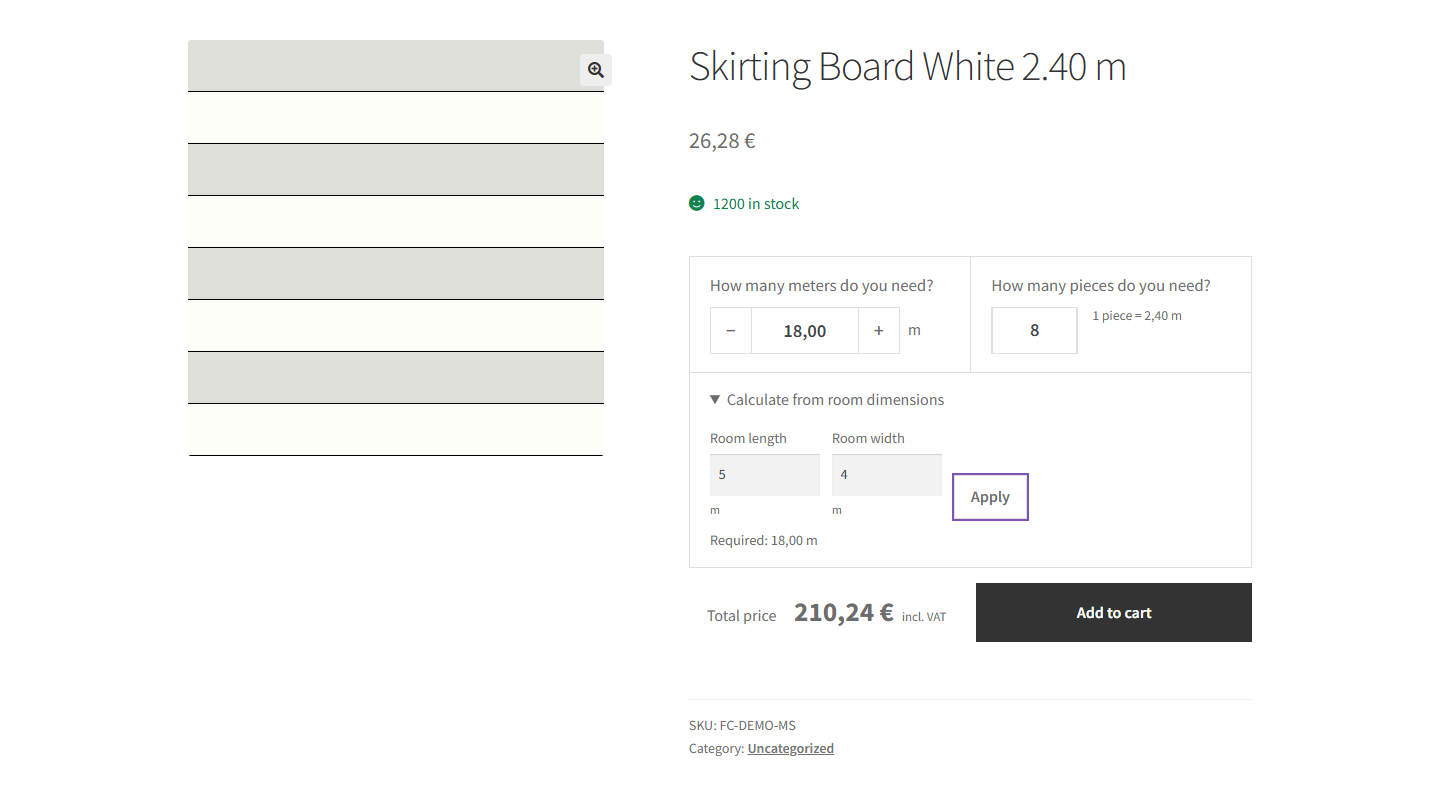
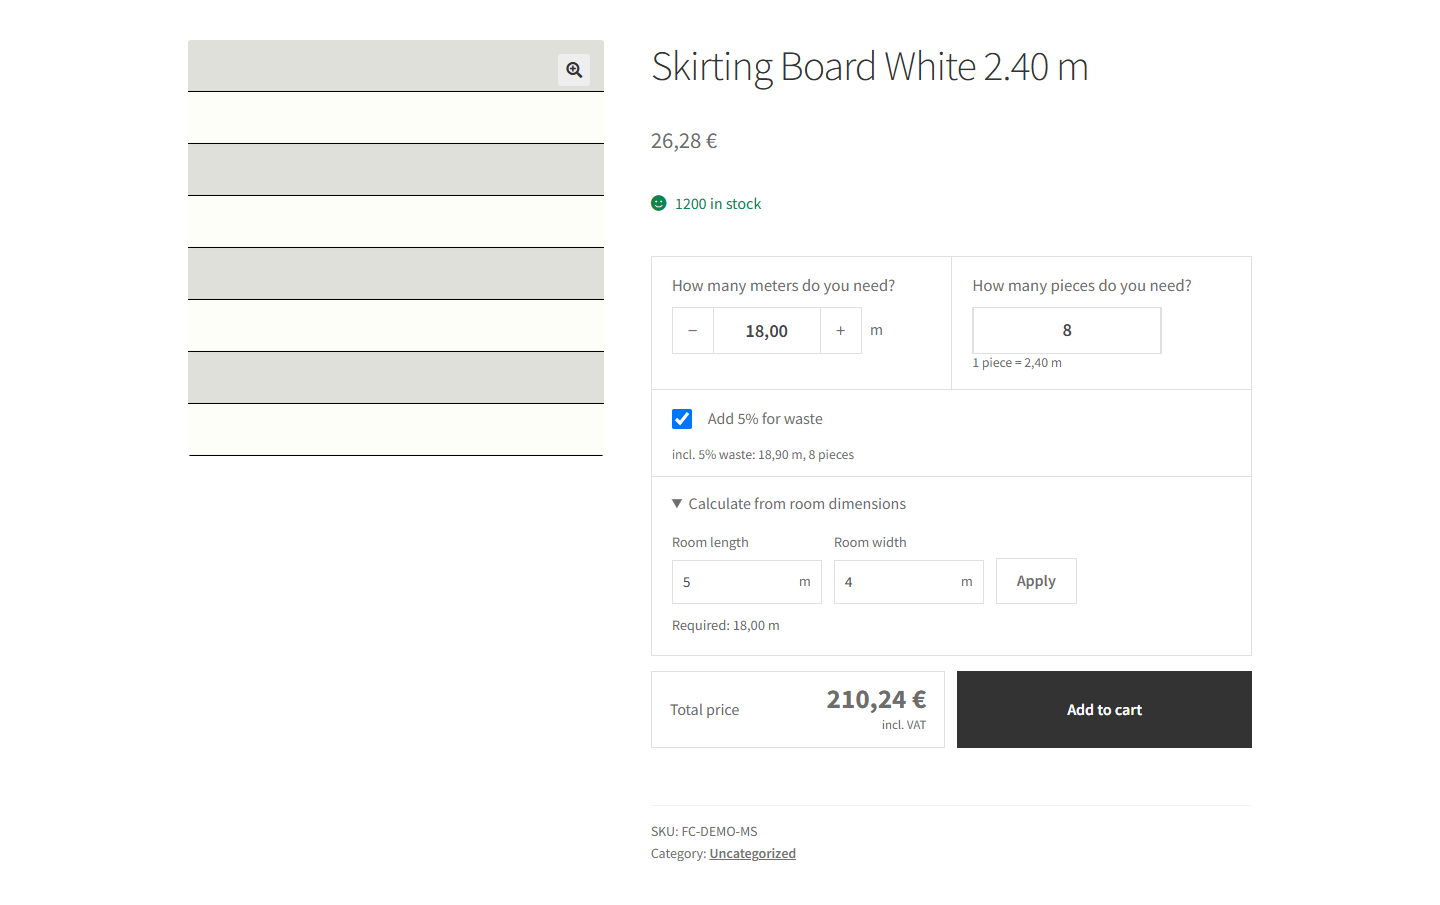
Assets and screenshots for wordpress.org
Quantity field keeps the stepper width and the note stays below it when
the theme floats the field (Storefront).

diff --git a/assets/css/caqc.css b/assets/css/caqc.css
@@ -140,6 +140,8 @@
 .caqc-hint,
 .caqc-note {
 	display: block;
+	/* Some themes float the quantity field, the note still belongs below it. */
+	clear: both;
 	margin-top: 8px;
 	min-height: 1.2em;
 	color: var(--caqc-muted);
@@ -162,7 +164,7 @@
 .caqc .caqc-field--qty .quantity {
 	display: flex;
 	align-items: stretch;
-	width: auto;
+	width: 100%;
 	max-width: 190px;
 	height: auto;
 	min-height: var(--caqc-field-height, 47px);
